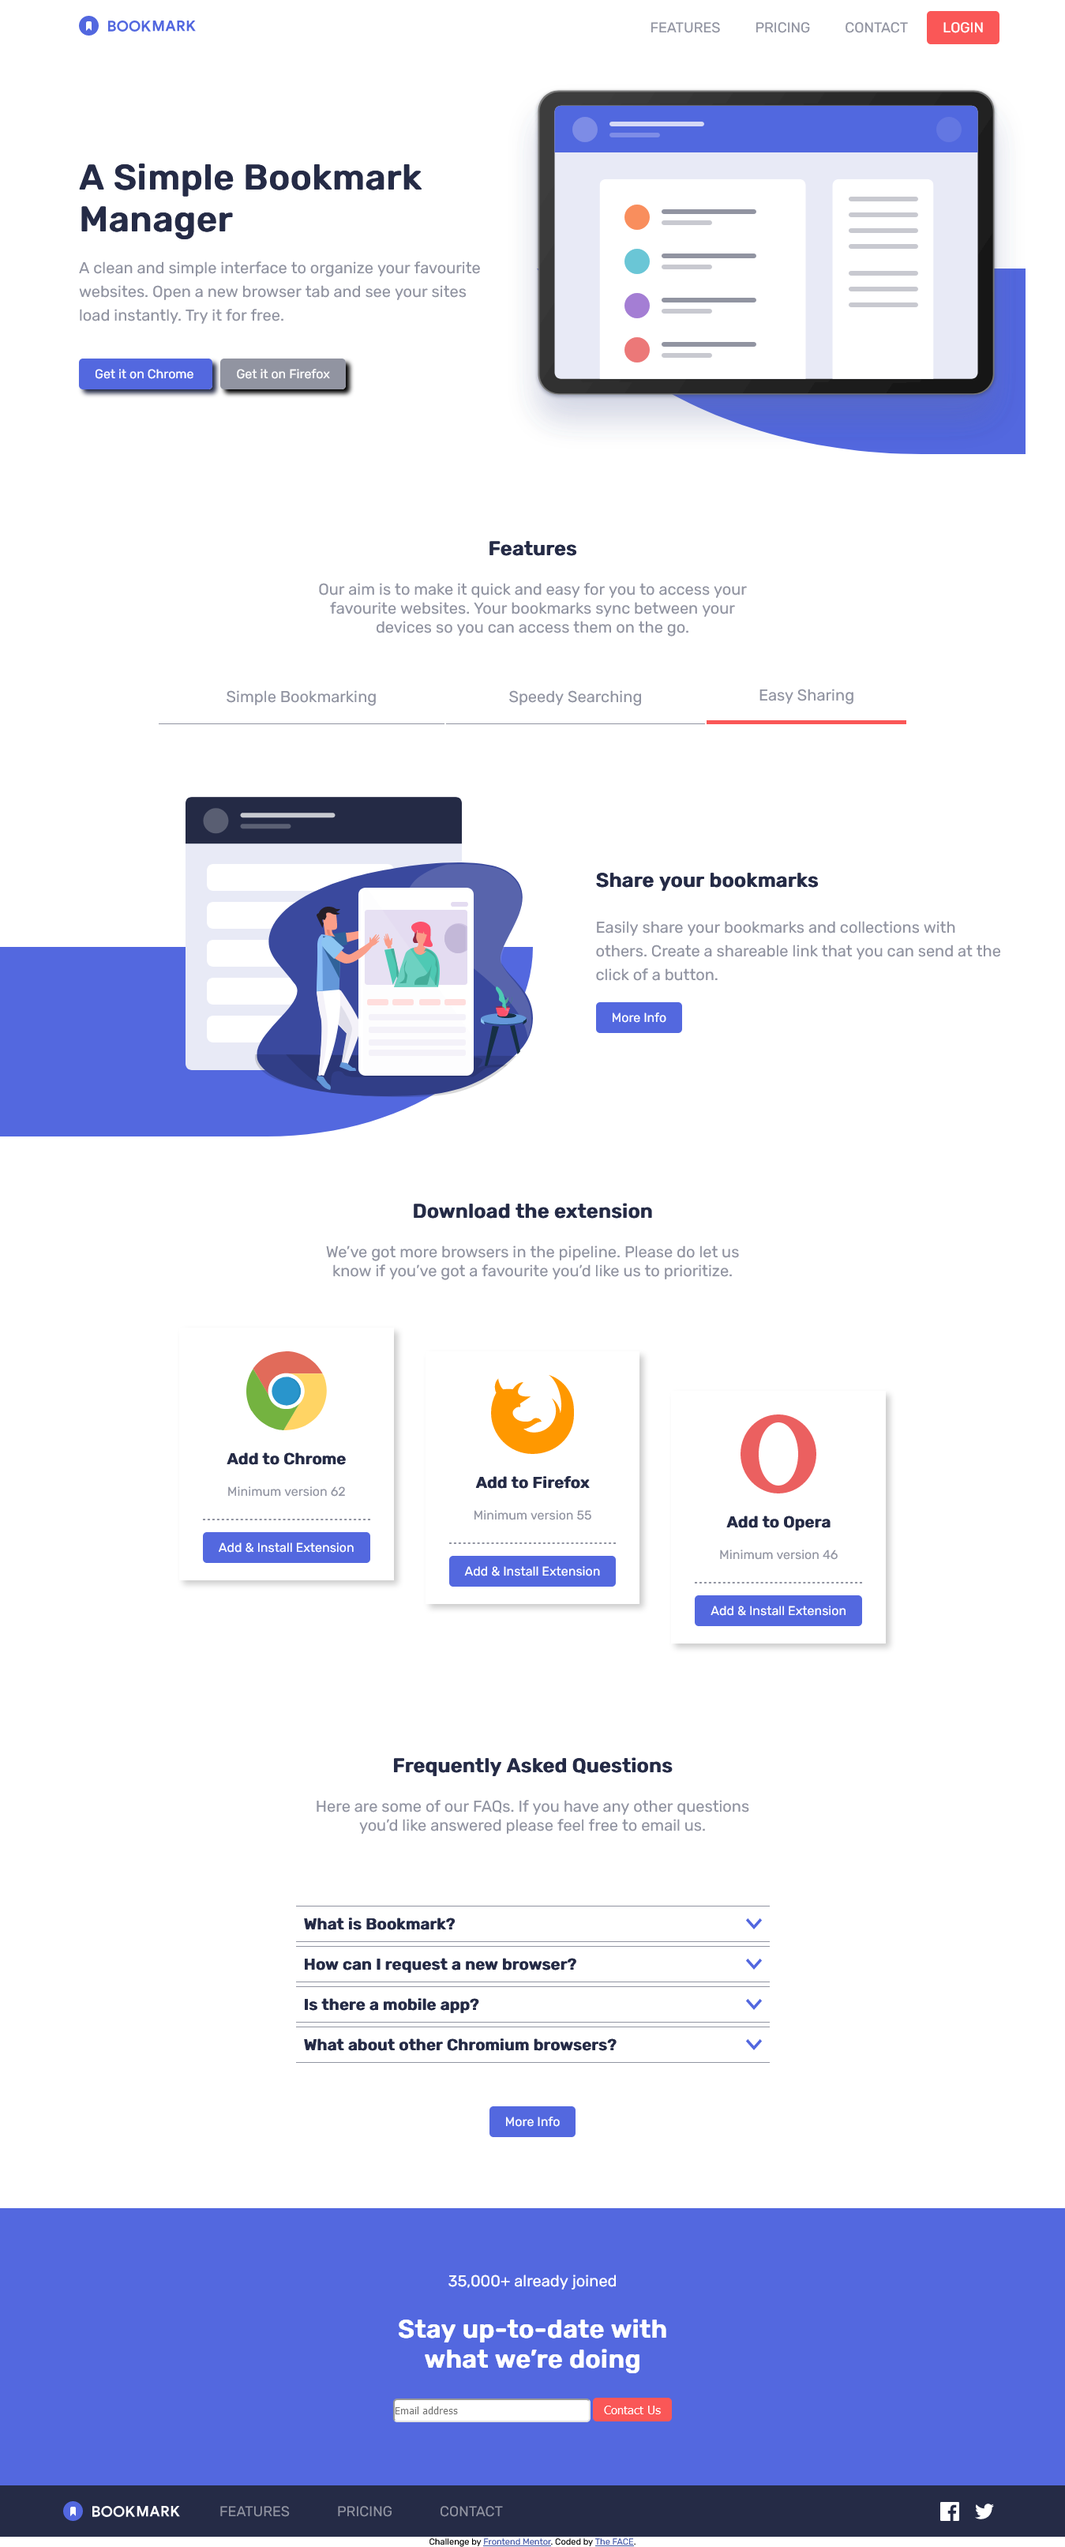
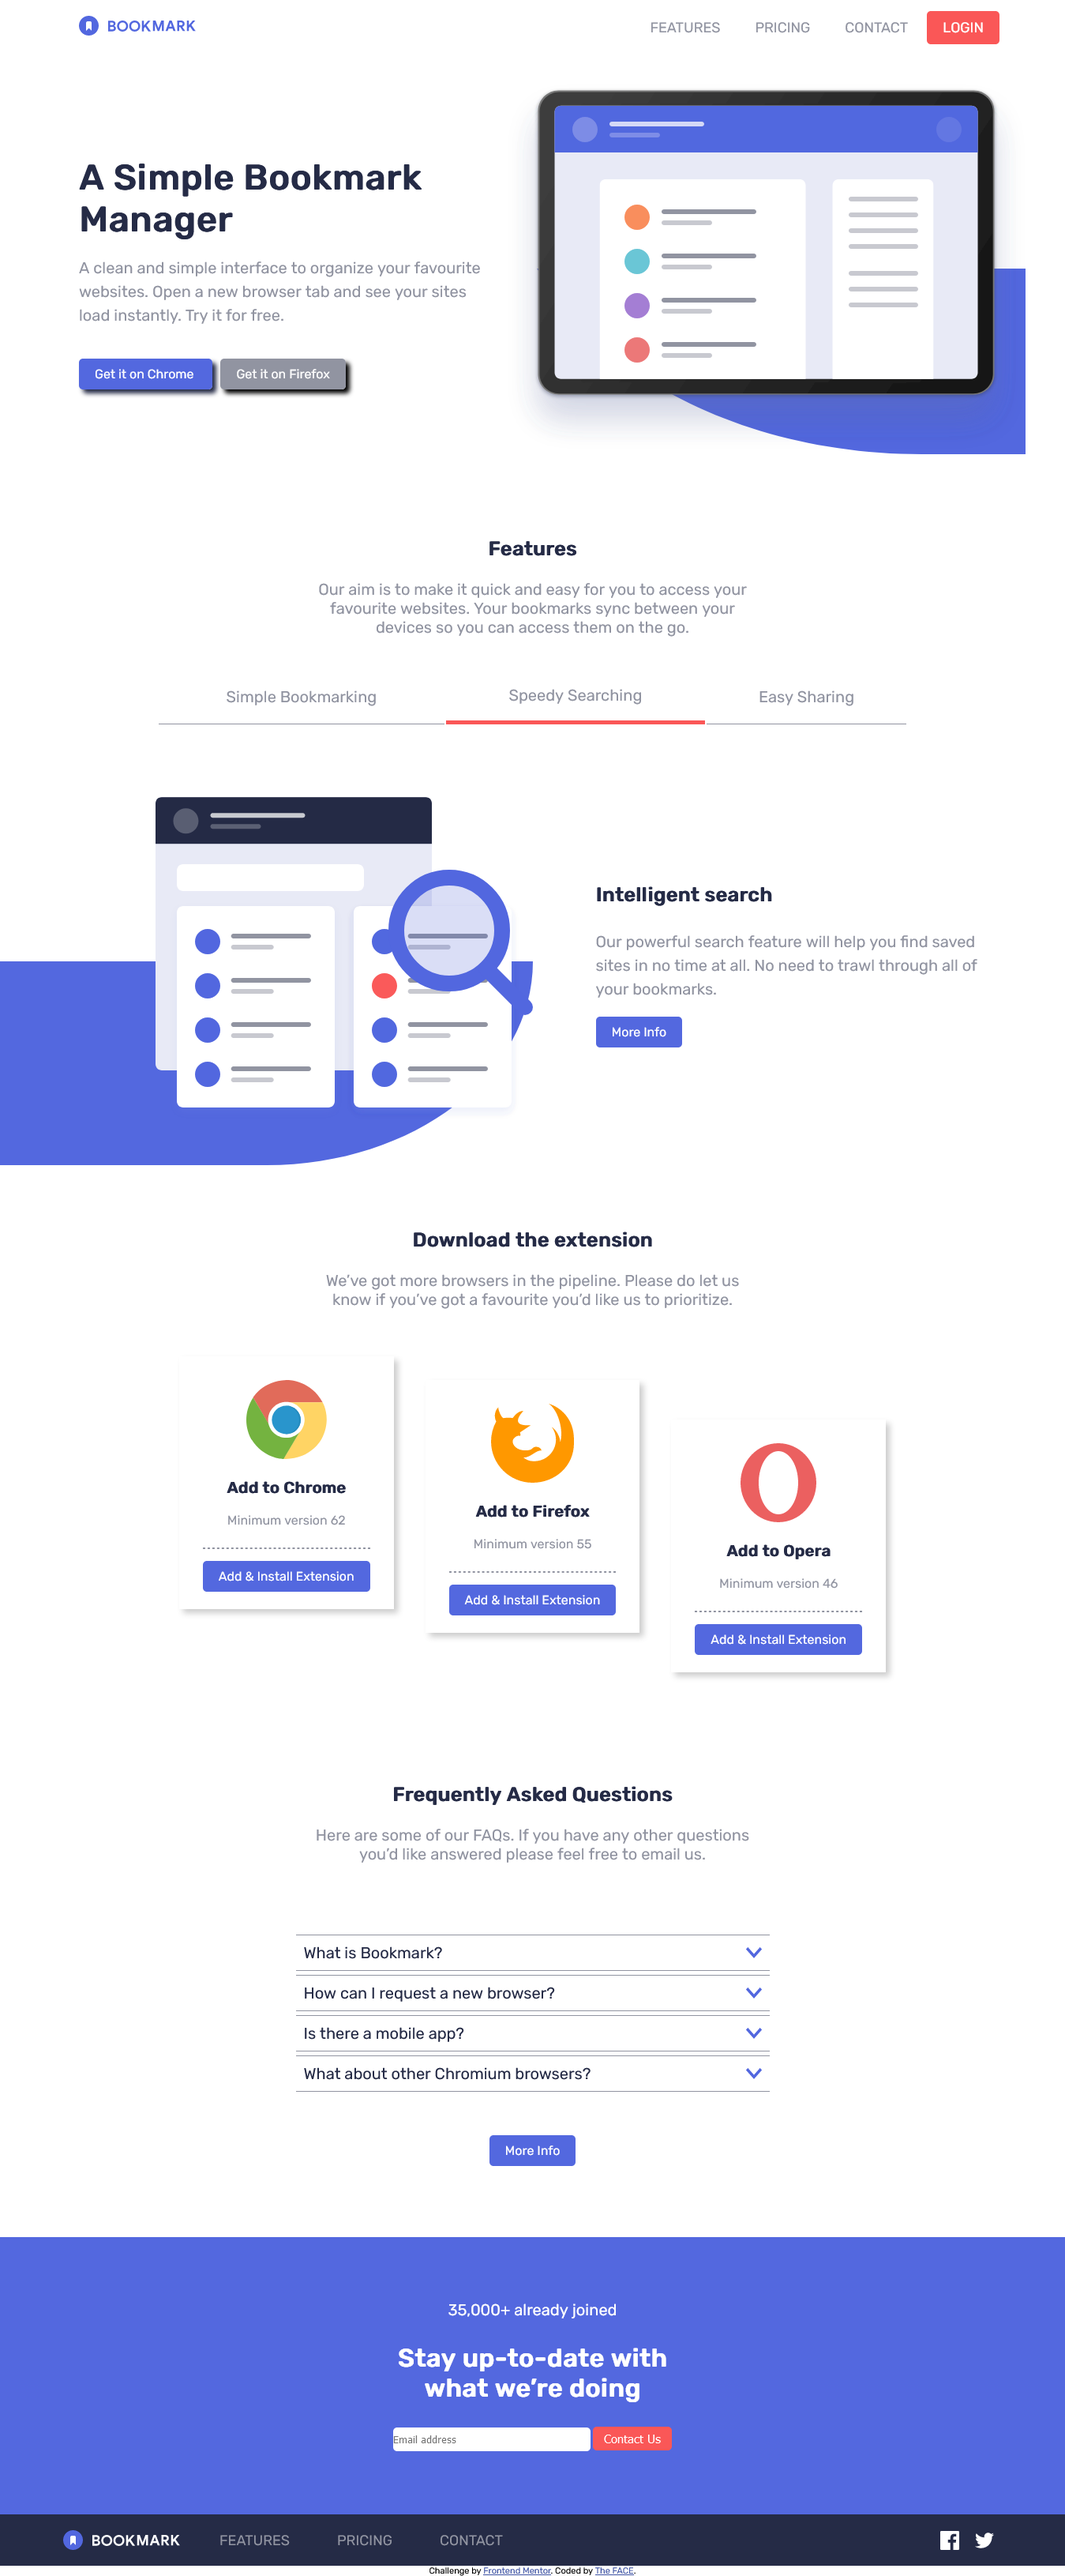
Update

diff --git a/index.html b/index.html
@@ -166,24 +166,28 @@
         <div class="faq">
           <div
             class="questions"
-            data-faq="question1"
+            data-faq="answers1"
             onclick="Toggle(this.dataset.faq)"
           >
             <h5>What is Bookmark?</h5>
             <img src="./images/icon-arrow.svg" alt="" class="toggle" />
           </div>
-          <div class="answers" id="answer1">
+          <div class="answers" id="answers1">
             <p>
               Lorem ipsum dolor sit amet, consectetur adipiscing elit. Fusce
               tincidunt justo eget ultricies fringilla. Phasellus blandit ipsum
               quis quam ornare mattis.
             </p>
           </div>
-          <div class="questions" data-faq="question2">
+          <div
+            class="questions"
+            data-faq="answers2"
+            onclick="Toggle(this.dataset.faq)"
+          >
             <h5>How can I request a new browser?</h5>
             <img src="./images/icon-arrow.svg" alt="" class="toggle" />
           </div>
-          <div class="answers" id="answer2">
+          <div class="answers" id="answers2">
             <p>
               Vivamus luctus eros aliquet convallis ultricies. Mauris augue
               massa, ultricies non ligula. Suspendisse imperdiet. Vivamus luctus
@@ -193,11 +197,15 @@
               Suspendisse imperdiet.
             </p>
           </div>
-          <div class="questions" data-faq="question3">
+          <div
+            class="questions"
+            data-faq="answers3"
+            onclick="Toggle(this.dataset.faq)"
+          >
             <h5>Is there a mobile app?</h5>
             <img src="./images/icon-arrow.svg" alt="" class="toggle" />
           </div>
-          <div class="answers" id="answer3">
+          <div class="answers" id="answers3">
             <p>
               Sed consectetur quam id neque fermentum accumsan. Praesent luctus
               vestibulum dolor, ut condimentum urna vulputate eget. Cras in
@@ -205,11 +213,15 @@
               sollicitudin ex et ultricies bibendum.
             </p>
           </div>
-          <div class="questions" data-faq="question4">
+          <div
+            class="questions"
+            data-faq="answers4"
+            onclick="Toggle(this.dataset.faq)"
+          >
             <h5>What about other Chromium browsers?</h5>
             <img src="./images/icon-arrow.svg" alt="" class="toggle" />
           </div>
-          <div class="answers" id="answer4">
+          <div class="answers" id="answers4">
             <p>
               Integer condimentum ipsum id imperdiet finibus. Vivamus in
               placerat mi, at euismod dui. Aliquam vitae neque eget nisl gravida
@@ -307,22 +319,22 @@
         });
         document.querySelector("#feature1").style.display = "flex";
       });
-      //       // const question = document.querySelector(".questions");
-      //       const answer = document.querySelectorAll(".answers");
-      //       const toggle = document.querySelector(".toggle");
-      //       // question.addEventListener("click",() =>
-      //       function Toggle(question) {
+      const question = document.querySelector(".questions h5");
+      const answer = document.querySelectorAll(".answers");
+      const toggle = document.querySelectorAll(".toggle");
+      question.addEventListener("click", () => {
+        document
+          .querySelectorAll(".answers")
+          .forEach((answer) => (answer.style.display = "none"));
+      });
 
-      // //         document.querySelectorAll(".answers").forEach() {
-      // div.answer.style.display = "none"
-      //         }
-      //         answer.style.display === "none"
-      //           ? (toggle.style.transform = "rotate(180deg)")(
-      //               (document.querySelector(`#{answers}`).style.display = "block")
-      //             )
-      //           : (answer.style.display = "none");
-      //         toggle.style.transform = "rotate(0deg)";
-      //       }
+      function Toggle(faq) {
+        (toggle.style.transform = "rotate(180deg)")(
+          (document.querySelector(`#${faq}`).style.display = "block")
+        );
+        //   : (answer.style.display = "none");
+        // toggle.style.transform = "rotate(0deg)";
+      }
     </script>
   </body>
 </html>

diff --git a/style.css b/style.css
@@ -286,6 +286,7 @@ hr {
 .questions h5 {
   font-size: 20px;
   color: hsl(229, 31%, 21%);
+  font-weight: 400;
 }
 
 .questions h5:hover,
@@ -336,6 +337,7 @@ a.more {
 .up-to-date input {
   width: 250px;
   border-radius: 5px;
+  border: none;
   height: 30px;
 }
 
@@ -437,6 +439,7 @@ a.more {
 
   nav div {
     padding: 0 20px;
+    width: 100%;
   }
 
   nav ul {
